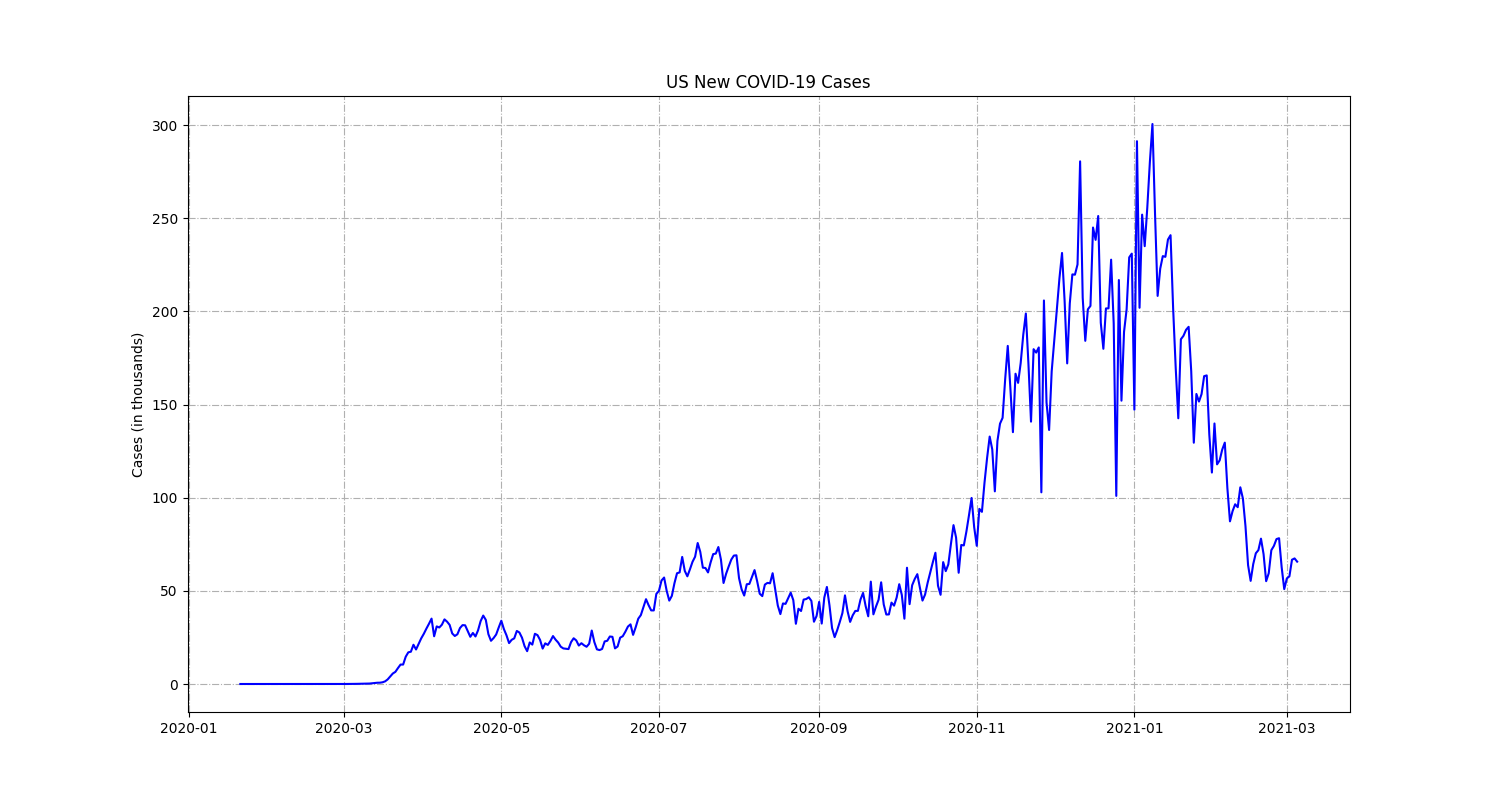
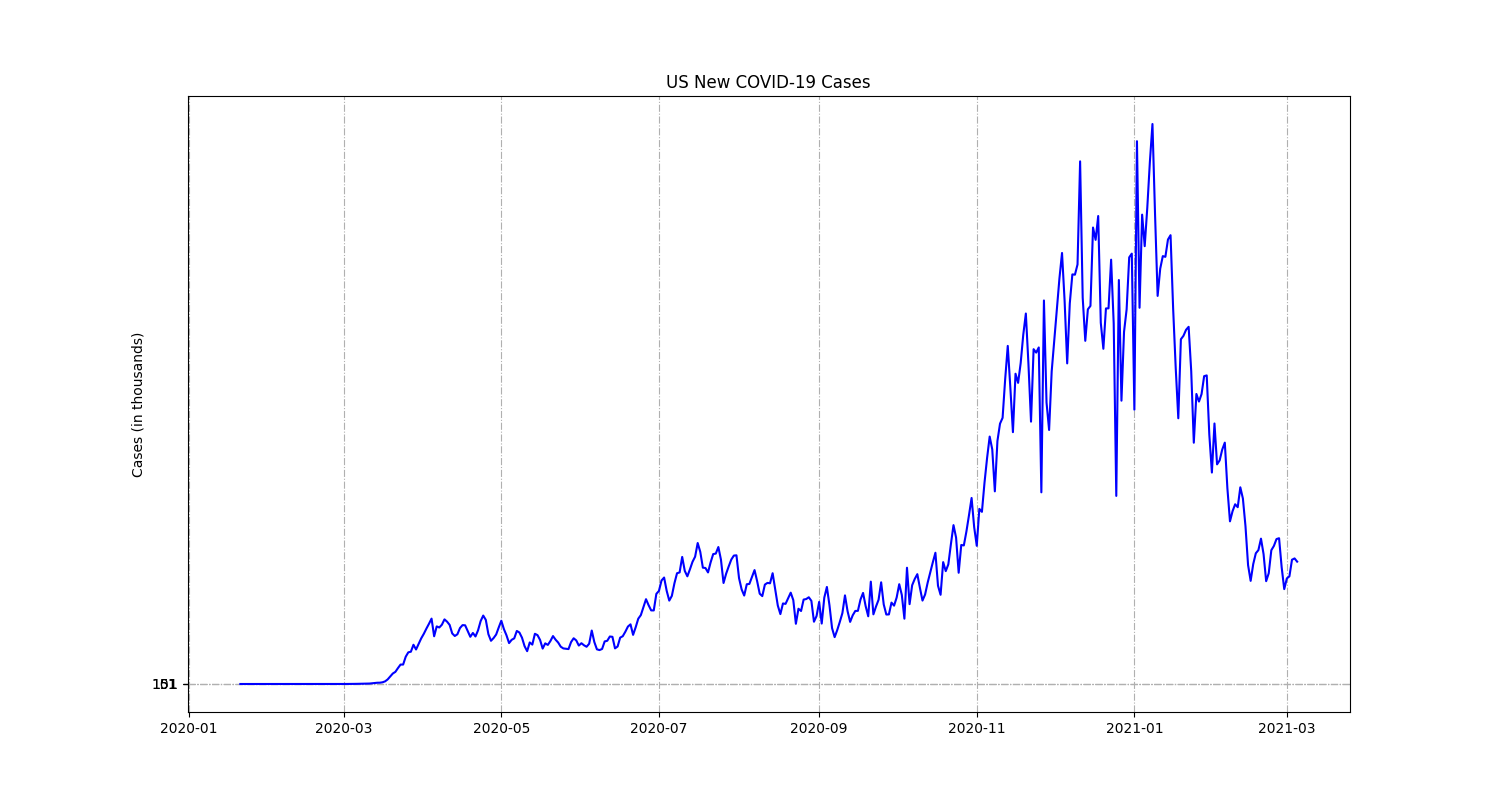
Updating data.

diff --git a/main.py b/main.py
@@ -125,12 +125,12 @@ while True:
     plt.plot(x, y, color='b')
     plt.savefig('plots/US_Total_COVID-19_Deaths.png')
 
-    y = new_cases / 1000
+    y = new_cases
     plt.figure('US New COVID-19 Cases', figsize=(15, 8))
     plt.title('US New COVID-19 Cases')
     plt.ylabel('Cases (in thousands)')
     plt.grid(True, ls='-.')
-    plt.yticks(np.arange(min(y), max(y) + 100, 50))
+    plt.yticks(np.arange(y[0], (y[-1] // 1000) + 100, 50))
     plt.plot(x, y, color='b')
     plt.savefig('plots/US_New_COVID-19_Cases.png')
 
